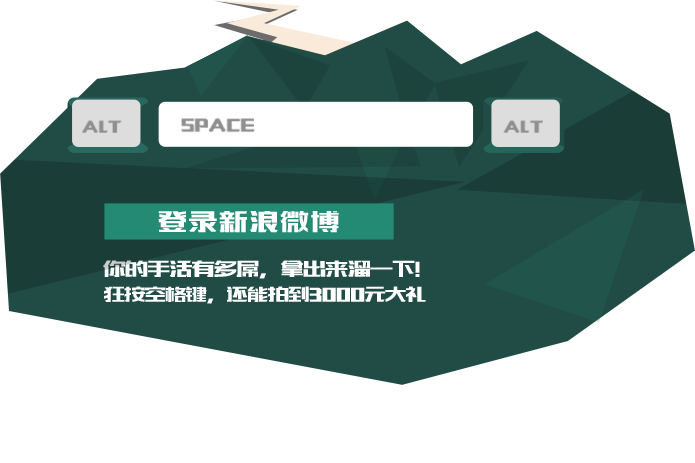
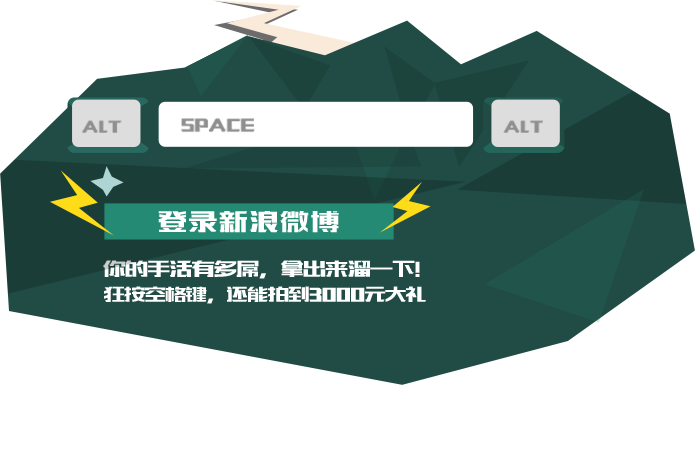
g04 修噶拍马屁样式，修复bug

Changed region(s): [[0.0604, 0.3629, 0.1813, 0.514], [0.5439, 0.3931, 0.6345, 0.4838], [0.5439, 0.4838, 0.5741, 0.514]]

diff --git a/app/scripts/main.js b/app/scripts/main.js
@@ -24,7 +24,7 @@
     rating:["拍马屁实习生","初级马屁精","资深马屁精","马屁精指导","马屁王"],
     sendWeiboImage:"",
     weiboBio:[],
-    preLoad:["1.png","2.png","3.png","4.png","5.png","6.png","7.png","8.png","9.png","10.png","11.png","12.png","13.png","14.png","15.png","16.png","17.png","18.png","19.png","20.png","21.png","22.png","23.png","24.png","25.png","26.png","27.png","28.png","click-space-0.png","num-0.png","click-space-1.png","num-1.png","click-space-2.png","num-2.png","cloud.png","num-3.png","fireworks.png","num-4.png","gametitle.png","num-5.png","green_bg.png","num-6.png","head.jpeg","num-7.png","head.jpg","num-8.png","head_1.png","num-9.png","hill_1.png","hill_2.png","ranking_beipai.png","background-before.png","horse-fast.png","ranking_bg.png","background.png","horse-slow.png","ranking_pai.png","bicycle_1.png","horse-walk-fast.png","ranking_title.png","bicycle_2.png","horse-walk-slow.png","scroe_title.png","bicycle_3.png","horse-walk-stop.png","succesMark.png","body-bg-before.jpg","body_bg.jpg","left_btn.png","weibo.png","car_1.png","loading-circle.png","weibolist_title.png","car_2.png","monster-green.png","weixin.png","car_3.png","monster-yellow.png","write_bg.png"],
+    preLoad:["1.png","2.png","3.png","4.png","5.png","6.png","7.png","8.png","9.png","10.png","11.png","12.png","13.png","14.png","15.png","16.png","17.png","18.png","19.png","20.png","21.png","22.png","23.png","24.png","25.png","26.png","27.png","28.png","click-space-0.png","num-0.png","click-space-1.png","num-1.png","click-space-2.png","num-2.png","cloud.png","num-3.png","fireworks.png","num-4.png","gametitle.png","num-5.png","green_bg.png","num-6.png","head.jpeg","num-7.png","head.jpg","num-8.png","head_1.png","num-9.png","hill_1.png","hill_2.png","ranking_beipai.png","background-before.png","horse-fast.png","ranking_bg.png","background.png","horse-slow.png","ranking_pai.png","bicycle_1.png","horse-walk-fast.png","ranking_title.png","bicycle_2.png","horse-walk-slow.png","scroe_title.png","bicycle_3.png","horse-walk-stop.png","succesMark.png","body-bg-before.jpg","body_bg.jpg","left_btn.png","weibo.png","car_1.png","loading-circle.png","weibolist_title.png","car_2.png","monster-green.png","weixin.png","car_3.png","monster-yellow.png","write_bg.png","hand.png","loading-shadow.png"],
     _timer:{
       timer:0,
       updateTimer:function () {
@@ -273,12 +273,16 @@
 
       var paiSound=function(){
         var snd=document.getElementById("pai-sound")
-        $(document).on("keydown.playsound", function(){
-          snd.play();
-          $("#fireworks").show();
-        }).on("keyup.playsound", function(){
-          snd.currentTime=0;
-          $("#fireworks").hide();
+        $(document).on("keydown.playsound", function(e){
+          if(e.which===32) {
+            snd.play();
+            $("#fireworks").show();
+          }
+        }).on("keyup.playsound", function(e){
+          if(e.which===32){
+            snd.currentTime=0;
+            $("#fireworks").hide();      
+          }
         });
       }
 

diff --git a/app/styles/main.less b/app/styles/main.less
@@ -284,39 +284,43 @@ body {
     }
   }
   #fireworks {
-    .animate-cell(@w:150px,@h:150px);
-    background: url("../images/fireworks.png") repeat-x;
-    background-position: 450px;
+    .size(294px, 222px);
+    background: url("../images/fireworks.png") no-repeat;
     position: absolute; 
     top:50%; left:50%;
     z-index:90;
-    margin-left:60px; margin-top:-40px;
-    .animation(fire-works .3s step-end 1 forwards);
+    margin-left:-20px; margin-top:-60px;
+    // .animation(fire-works .3s step-end 1 forwards);
   }
-
-  .startFire{
+  #hand-pai{
+    .size(76px, 98px);
+    background: url("../images/hand.png") no-repeat;
+    position: absolute; 
+    top:50%; left:50%;
+    z-index:90;
+    margin-left:90px;
   }
 
   @-webkit-keyframes fire-works{
-    @cell2:150px;
-    /*0%{
+    @cell2:294px;
+    0%{
       background-position-x: 0;
     }
-    16.7%{
+    /*16.7%{
       background-position-x: @cell2;
-    }*/
+    }
     33.3%{
       background-position-x: @cell2*2;
-    }
-    50%{
-      background-position-x: @cell2*3;
-    }
-    66.7%{
-      background-position-x: @cell2*4;
-    }
-    /*83.3%{
-      background-position-x: @cell2*5;
     }*/
+    50%{
+      background-position-x: @cell2;
+    }
+    /*66.7%{
+      background-position-x: @cell2*4;
+    }*/
+    100%{
+      background-position-x: 0;
+    }
   }
 
 }

diff --git a/app/styles/loading.less b/app/styles/loading.less
@@ -4,15 +4,24 @@
   }
 }
 
-#loading{
+#loading-shadow, #loading{
   @w:148px;
   .square(@w);
-  background: url(../images/loading-circle.png) no-repeat;
   position: absolute;
   left:50%; top:50%;
   margin-top: -@w/2;
   margin-left:-@w/2;
+}
+
+#loading{
+  background: url(../images/loading-circle.png) no-repeat;
   .animation(rotate-circle 10s linear infinite);
+}
+
+#loading-shadow{
+  margin-top:-65px;
+  background: url(../images/loading-shadow.png) no-repeat;
+  background-size:contain;
 }
 
 #percent1, #percent0{

diff --git a/app/index.html b/app/index.html
@@ -21,6 +21,7 @@
     <![endif]-->
     
     <div class="fullscreen" id="Loading">
+      <div id="loading-shadow"></div>
       <div id="loading"></div>
       <div id="percent1"></div>
       <div id="percent0"></div>
@@ -48,6 +49,7 @@
         </div>
       </div>
       <div id="fireworks" style="display:none"></div>
+      <div id="hand-pai"></div>
       <audio src="mp3/pai.mp3" id="pai-sound"></audio>
       <div id="timeCount">
         <div class="title">倒计时/秒</div><br>
